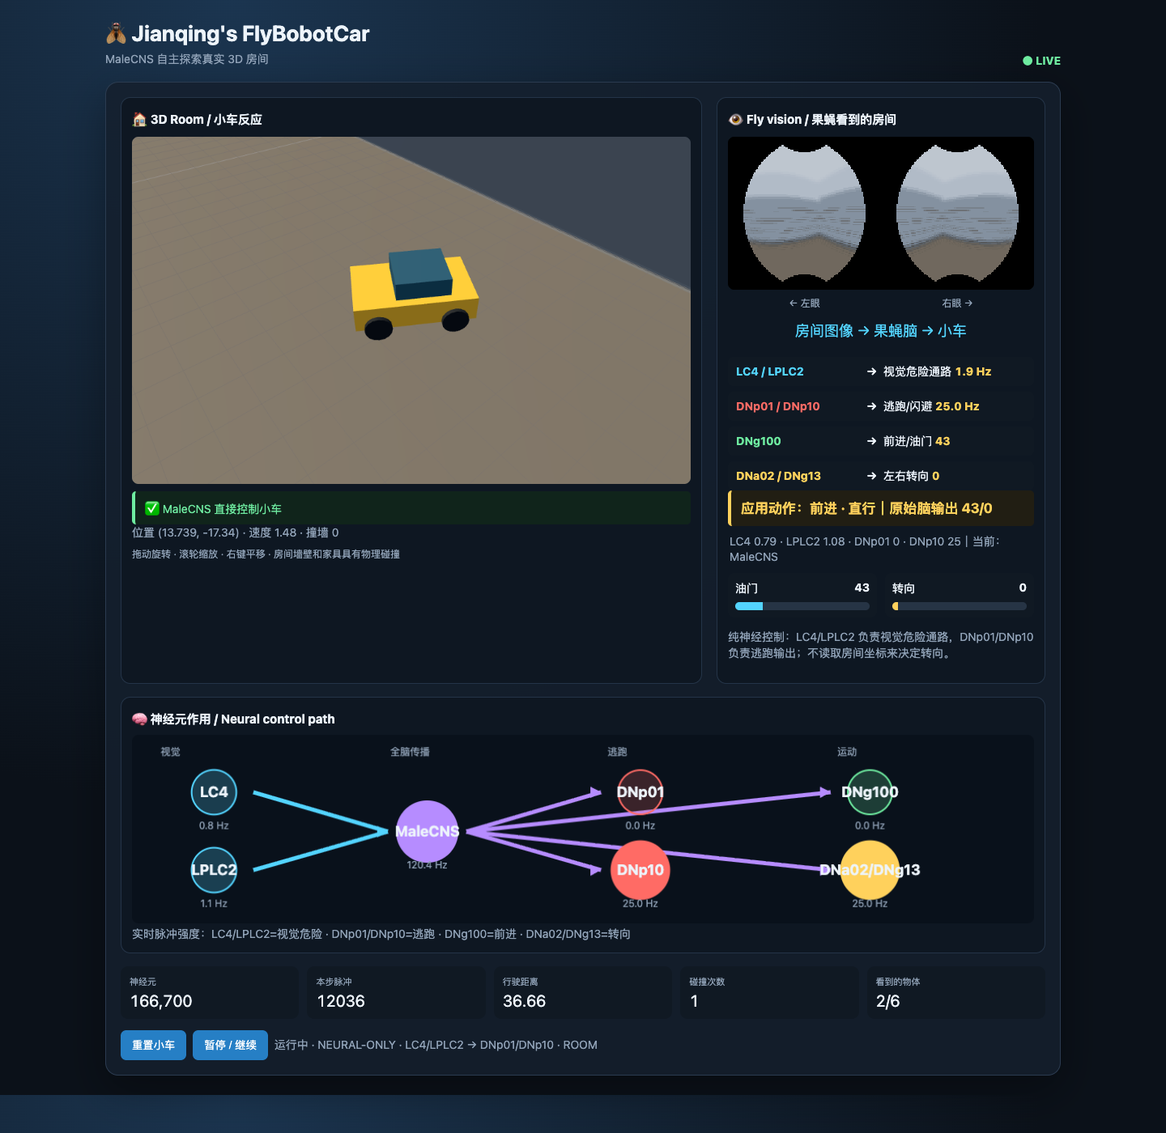
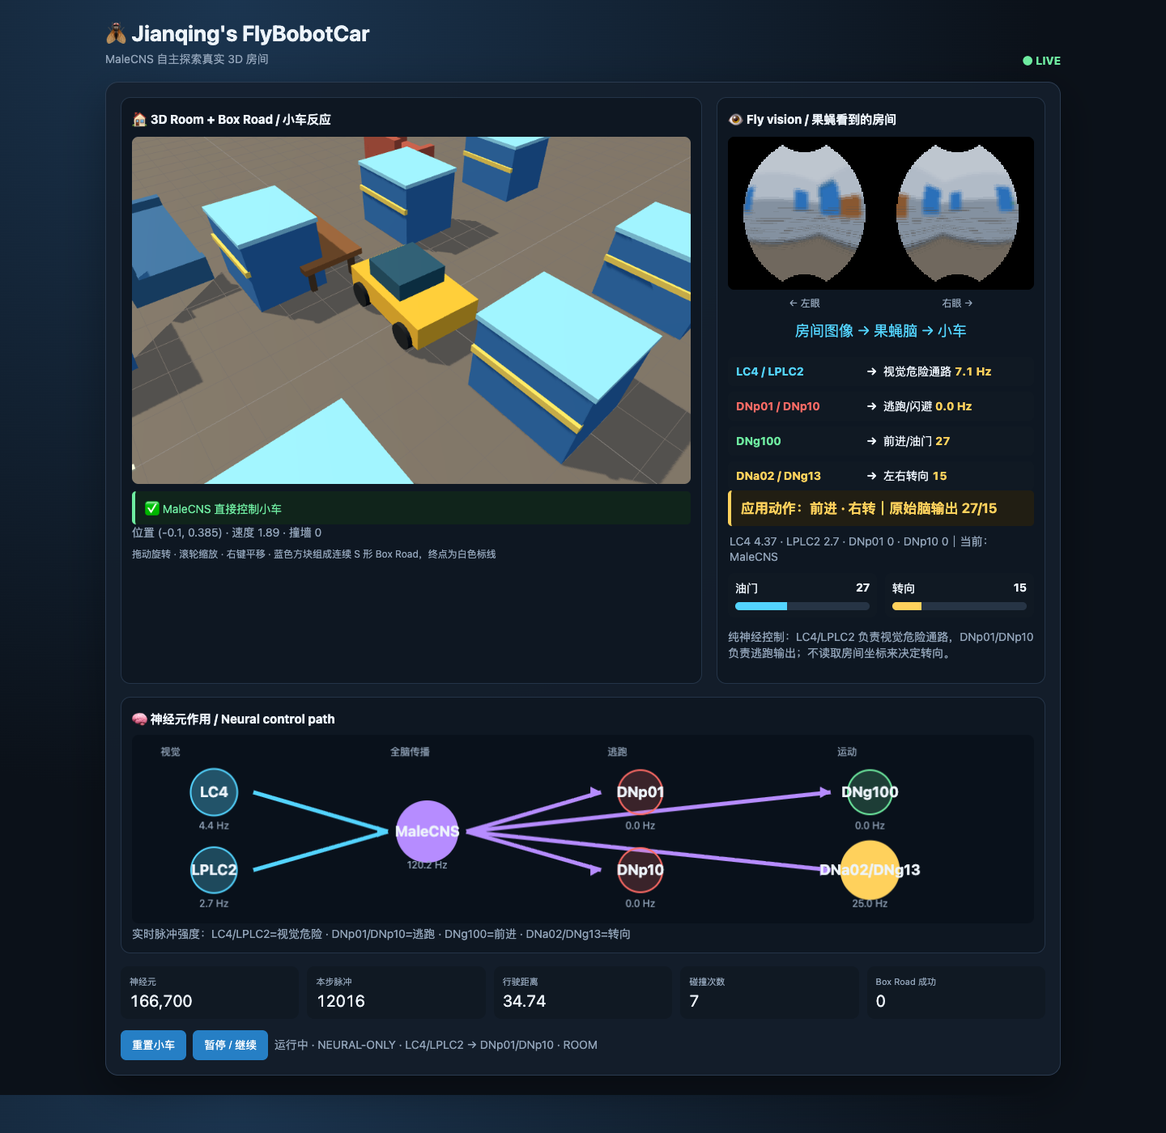
Replace sofa lane with S-shaped Box Road

diff --git a/index.html b/index.html
@@ -1,14 +1,14 @@
 <!doctype html><html lang="zh-CN"><head><meta charset="utf-8"><title>Jianqing's FlyBobotCar</title>
 <style>:root{--bg:#0b1119;--panel:#141f2d;--line:#2b3b50;--text:#edf4fb;--muted:#91a3b8;--cyan:#53d4ff;--yellow:#ffd15c;--green:#6eeba0}*{box-sizing:border-box}body{margin:0;background:radial-gradient(circle at 20% 0,#1b3550,#0b1119 56%);color:var(--text);font:14px system-ui}.wrap{width:min(1180px,95vw);margin:24px auto}.head{display:flex;justify-content:space-between;align-items:end}.head h1{margin:0 0 4px;font-size:27px}.muted{color:var(--muted)}.live{color:var(--green);font-weight:700}.panel{background:#141f2ddd;border:1px solid var(--line);border-radius:16px;padding:18px;margin-top:18px;box-shadow:0 18px 50px #0005}.grid{display:grid;grid-template-columns:1.38fr .78fr;gap:18px}.card{background:#0e1722;border:1px solid #243448;border-radius:12px;padding:13px}.card h2{font-size:15px;margin:0 0 10px}.scene{width:100%;height:auto;display:block;border-radius:8px;background:#202b39;cursor:grab}.vision{width:100%;image-rendering:pixelated;background:#03070b;border-radius:8px}.eyes{display:flex;justify-content:space-around;color:var(--muted);font-size:12px;margin-top:5px}.flow{text-align:center;color:var(--cyan);font-size:18px;padding:13px 0 8px}.action{border-left:4px solid var(--yellow);background:#211e13;padding:10px 12px;font-size:17px;font-weight:650;color:var(--yellow);border-radius:5px}.reaction{border-left:4px solid var(--green);background:#10241b;padding:9px 12px;margin-top:9px;color:var(--green);border-radius:5px}.mapping{display:grid;gap:7px;margin-top:12px}.maprow{display:grid;grid-template-columns:1fr auto 1.15fr;align-items:center;gap:8px;background:#101923;border-radius:7px;padding:8px 10px}.mapin{font-weight:700}.mapout{color:#ecf3fb}.mapval{font-variant-numeric:tabular-nums;color:var(--yellow);font-weight:700}.meters{display:grid;grid-template-columns:1fr 1fr;gap:10px;margin-top:12px}.meter{background:#101923;padding:9px;border-radius:8px}.meterhead{display:flex;justify-content:space-between}.track{height:10px;border-radius:8px;background:#263445;margin-top:7px;overflow:hidden}.fill{height:100%;background:var(--cyan);transition:width .2s}.fill.turn{background:var(--yellow)}.neural-card{margin-top:16px;background:#0e1722;border:1px solid #243448;border-radius:12px;padding:13px}.neural-card h2{font-size:15px;margin:0 0 8px}.neural-card canvas{width:100%;height:auto;background:#09111b;border-radius:8px}.stats{display:grid;grid-template-columns:repeat(5,1fr);gap:10px;margin-top:16px}.stat{background:#101923;padding:11px;border-radius:9px}.label{font-size:11px;color:var(--muted)}.value{font-size:20px;margin-top:4px;font-variant-numeric:tabular-nums}button{border:0;border-radius:7px;padding:9px 14px;background:#267fc5;color:white;margin:14px 8px 0 0;cursor:pointer}.hint{margin-top:8px;font-size:12px;color:var(--muted)}@media(max-width:800px){.grid{grid-template-columns:1fr}.stats{grid-template-columns:repeat(3,1fr)}}</style>
-<script type="importmap">{"imports":{"three":"https://cdn.jsdelivr.net/npm/three@0.180.0/build/three.module.js"}}</script></head><body><div class="wrap"><div class="head"><div><h1>🪰 Jianqing's FlyBobotCar</h1><div class="muted">MaleCNS 自主探索真实 3D 房间</div></div><div class="live">● LIVE</div></div><div class="panel"><div class="grid"><div class="card"><h2>🏠 3D Room + Sofa Road / 小车反应</h2><canvas id="scene" class="scene" width="900" height="560"></canvas><div class="reaction" id="reaction">等待小车反应…</div><div class="muted" id="pose">—</div><div class="hint">拖动旋转 · 滚轮缩放 · 右键平移 · 蓝色沙发组成 Sofa Road，终点为白色标线</div></div><div class="card"><h2>👁 Fly vision / 果蝇看到的房间</h2><canvas id="vision" class="vision" width="256" height="128"></canvas><div class="eyes"><span>← 左眼</span><span>右眼 →</span></div><div class="flow">房间图像 → 果蝇脑 → 小车</div><div class="mapping"><div class="maprow"><span class="mapin" style="color:#53d4ff">LC4 / LPLC2</span><b>→</b><span class="mapout">视觉危险通路 <b class="mapval" id="mapvision">0 Hz</b></span></div><div class="maprow"><span class="mapin" style="color:#ff6b65">DNp01 / DNp10</span><b>→</b><span class="mapout">逃跑/闪避 <b class="mapval" id="mapescape">0 Hz</b></span></div><div class="maprow"><span class="mapin" style="color:#6eeba0">DNg100</span><b>→</b><span class="mapout">前进/油门 <b class="mapval" id="mapforward">0</b></span></div><div class="maprow"><span class="mapin" style="color:#ffd15c">DNa02 / DNg13</span><b>→</b><span class="mapout">左右转向 <b class="mapval" id="mapturn">0</b></span></div></div><div class="action" id="action">动作：—</div><div class="muted" id="reflex" style="padding:9px 2px 0">作用：LC4/LPLC2=视觉危险 · DNp01/DNp10=逃跑 · DNg100=前进 · DNa02/DNg13=转向</div><div class="meters"><div class="meter"><div class="meterhead"><span>油门</span><b id="tv">0</b></div><div class="track"><div class="fill" id="throttle"></div></div></div><div class="meter"><div class="meterhead"><span>转向</span><b id="sv">0</b></div><div class="track"><div class="fill turn" id="steering"></div></div></div></div><p class="muted">纯神经控制：LC4/LPLC2 负责视觉危险通路，DNp01/DNp10 负责逃跑输出；不读取房间坐标来决定转向。</p></div></div><div class="neural-card"><h2>🧠 神经元作用 / Neural control path</h2><canvas id="neuralMap" width="1100" height="230"></canvas><div class="muted">实时脉冲强度：LC4/LPLC2=视觉危险 · DNp01/DNp10=逃跑 · DNg100=前进 · DNa02/DNg13=转向</div></div><div class="stats"><div class="stat"><div class="label">神经元</div><div class="value" id="neurons">—</div></div><div class="stat"><div class="label">本步脉冲</div><div class="value" id="spikes">—</div></div><div class="stat"><div class="label">行驶距离</div><div class="value" id="distance">—</div></div><div class="stat"><div class="label">碰撞次数</div><div class="value" id="collisions">—</div></div><div class="stat"><div class="label">Sofa Road 成功</div><div class="value" id="successes">—</div></div></div><button onclick="post('/reset')">重置小车</button><button onclick="post('/pause')">暂停 / 继续</button><span class="muted" id="status">加载 3D 房间…</span></div></div></div>
+<script type="importmap">{"imports":{"three":"https://cdn.jsdelivr.net/npm/three@0.180.0/build/three.module.js"}}</script></head><body><div class="wrap"><div class="head"><div><h1>🪰 Jianqing's FlyBobotCar</h1><div class="muted">MaleCNS 自主探索真实 3D 房间</div></div><div class="live">● LIVE</div></div><div class="panel"><div class="grid"><div class="card"><h2>🏠 3D Room + Box Road / 小车反应</h2><canvas id="scene" class="scene" width="900" height="560"></canvas><div class="reaction" id="reaction">等待小车反应…</div><div class="muted" id="pose">—</div><div class="hint">拖动旋转 · 滚轮缩放 · 右键平移 · 蓝色方块组成连续 S 形 Box Road，终点为白色标线</div></div><div class="card"><h2>👁 Fly vision / 果蝇看到的房间</h2><canvas id="vision" class="vision" width="256" height="128"></canvas><div class="eyes"><span>← 左眼</span><span>右眼 →</span></div><div class="flow">房间图像 → 果蝇脑 → 小车</div><div class="mapping"><div class="maprow"><span class="mapin" style="color:#53d4ff">LC4 / LPLC2</span><b>→</b><span class="mapout">视觉危险通路 <b class="mapval" id="mapvision">0 Hz</b></span></div><div class="maprow"><span class="mapin" style="color:#ff6b65">DNp01 / DNp10</span><b>→</b><span class="mapout">逃跑/闪避 <b class="mapval" id="mapescape">0 Hz</b></span></div><div class="maprow"><span class="mapin" style="color:#6eeba0">DNg100</span><b>→</b><span class="mapout">前进/油门 <b class="mapval" id="mapforward">0</b></span></div><div class="maprow"><span class="mapin" style="color:#ffd15c">DNa02 / DNg13</span><b>→</b><span class="mapout">左右转向 <b class="mapval" id="mapturn">0</b></span></div></div><div class="action" id="action">动作：—</div><div class="muted" id="reflex" style="padding:9px 2px 0">作用：LC4/LPLC2=视觉危险 · DNp01/DNp10=逃跑 · DNg100=前进 · DNa02/DNg13=转向</div><div class="meters"><div class="meter"><div class="meterhead"><span>油门</span><b id="tv">0</b></div><div class="track"><div class="fill" id="throttle"></div></div></div><div class="meter"><div class="meterhead"><span>转向</span><b id="sv">0</b></div><div class="track"><div class="fill turn" id="steering"></div></div></div></div><p class="muted">纯神经控制：LC4/LPLC2 负责视觉危险通路，DNp01/DNp10 负责逃跑输出；不读取房间坐标来决定转向。</p></div></div><div class="neural-card"><h2>🧠 神经元作用 / Neural control path</h2><canvas id="neuralMap" width="1100" height="230"></canvas><div class="muted">实时脉冲强度：LC4/LPLC2=视觉危险 · DNp01/DNp10=逃跑 · DNg100=前进 · DNa02/DNg13=转向</div></div><div class="stats"><div class="stat"><div class="label">神经元</div><div class="value" id="neurons">—</div></div><div class="stat"><div class="label">本步脉冲</div><div class="value" id="spikes">—</div></div><div class="stat"><div class="label">行驶距离</div><div class="value" id="distance">—</div></div><div class="stat"><div class="label">碰撞次数</div><div class="value" id="collisions">—</div></div><div class="stat"><div class="label">Box Road 成功</div><div class="value" id="successes">—</div></div></div><button onclick="post('/reset')">重置小车</button><button onclick="post('/pause')">暂停 / 继续</button><span class="muted" id="status">加载 3D 房间…</span></div></div></div>
 <script type="module">
 import * as THREE from 'three';import {OrbitControls} from 'https://cdn.jsdelivr.net/npm/three@0.180.0/examples/jsm/controls/OrbitControls.js';
 const $=id=>document.getElementById(id);let state={x:0,y:0,heading:0},car,scene,cam,renderer,controls,hasState=false;
 const material=c=>new THREE.MeshStandardMaterial({color:c,roughness:.78});const box=(w,h,d,c)=>new THREE.Mesh(new THREE.BoxGeometry(w,h,d),material(c));
 function drawNeural(s){let c=$("neuralMap"),x=c.getContext("2d"),nodes=[{x:100,y:70,n:"LC4",v:s.lc4_rate,col:"#53d4ff"},{x:100,y:165,n:"LPLC2",v:s.lplc2_rate,col:"#53d4ff"},{x:360,y:118,n:"MaleCNS",v:s.spikes/100,v2:s.spikes/100,col:"#b68cff"},{x:620,y:70,n:"DNp01",v:s.dnp01_rate,col:"#ff6b65"},{x:620,y:165,n:"DNp10",v:s.dnp10_rate,col:"#ff6b65"},{x:900,y:70,n:"DNg100",v:s.dng100_rate,col:"#6eeba0"},{x:900,y:165,n:"DNa02/DNg13",v:s.dna_rate,col:"#ffd15c"}],edges=[[0,2],[1,2],[2,3],[2,4],[2,5],[2,6]];x.clearRect(0,0,c.width,c.height);x.font="bold 18px system-ui";x.textAlign="center";for(let [a,b] of edges){let A=nodes[a],B=nodes[b],alpha=.25+Math.min(1,(A.v+B.v)/30)*.75;x.strokeStyle=A.col;x.globalAlpha=alpha;x.lineWidth=2+alpha*3;x.beginPath();x.moveTo(A.x+48,A.y);x.lineTo(B.x-48,B.y);x.stroke();x.globalAlpha=1;x.fillStyle=A.col;x.beginPath();x.moveTo(B.x-48,B.y);x.lineTo(B.x-61,B.y-7);x.lineTo(B.x-61,B.y+7);x.fill()}for(let n of nodes){let p=.2+Math.min(1,n.v/25)*.8;x.globalAlpha=p;x.fillStyle=n.col;x.beginPath();x.arc(n.x,n.y,27+Math.min(10,n.v/3),0,7);x.fill();x.globalAlpha=1;x.strokeStyle=n.col;x.lineWidth=2;x.stroke();x.fillStyle="#edf4fb";x.fillText(n.n,n.x,n.y+6);x.font="12px system-ui";x.fillStyle="#91a3b8";x.fillText(`${n.v.toFixed(1)} Hz`,n.x,n.y+45);x.font="bold 18px system-ui"}x.textAlign="left";x.font="12px system-ui";x.fillStyle="#91a3b8";x.fillText("视觉",35,25);x.fillText("全脑传播",315,25);x.fillText("逃跑",580,25);x.fillText("运动",860,25)}
-function addFurniture(o){let g=new THREE.Group(),c=(o.color[0]<<16)|(o.color[1]<<8)|o.color[2];if(o.kind==='sofa'||o.kind==='armchair'){let seat=box(o.w,.45,o.d,c);seat.position.y=.48;g.add(seat);let back=box(o.w,o.h*.75,.35,c);back.position.set(0,o.h*.6,o.d/2-.18);g.add(back);for(let side of [-1,1]){let arm=box(.3,.7,o.d,c);arm.position.set(side*(o.w/2-.15),.65,0);g.add(arm)}}else if(o.kind.includes('table')){let top=box(o.w,.18,o.d,c);top.position.y=o.h;g.add(top);for(let sx of [-1,1])for(let sz of [-1,1]){let leg=box(.16,o.h,.16,0x55402e);leg.position.set(sx*(o.w/2-.25),o.h/2,sz*(o.d/2-.25));g.add(leg)}}else if(o.kind==='bookshelf'){let body=box(o.w,o.h,o.d,c);body.position.y=o.h/2;g.add(body);for(let y=.5;y<o.h;y+=.65){let shelf=box(o.w+.08,.08,o.d+.08,0xe0b77b);shelf.position.y=y;g.add(shelf)}}else{let pot=new THREE.Mesh(new THREE.CylinderGeometry(.55,.42,.7,16),material(0x9a5837));pot.position.y=.35;g.add(pot);let stem=box(.12,1.5,.12,0x376d3d);stem.position.y=1.3;g.add(stem);let leaves=new THREE.Mesh(new THREE.SphereGeometry(.8,16,12),material(0x2f9652));leaves.position.y=2;g.add(leaves)}g.position.set(o.x,0,o.y);g.traverse(n=>{if(n.isMesh){n.castShadow=true;n.receiveShadow=true}});scene.add(g)}
+function addFurniture(o){let g=new THREE.Group(),c=(o.color[0]<<16)|(o.color[1]<<8)|o.color[2];if(o.kind==='sofa'||o.kind==='armchair'){let seat=box(o.w,.45,o.d,c);seat.position.y=.48;g.add(seat);let back=box(o.w,o.h*.75,.35,c);back.position.set(0,o.h*.6,o.d/2-.18);g.add(back);for(let side of [-1,1]){let arm=box(.3,.7,o.d,c);arm.position.set(side*(o.w/2-.15),.65,0);g.add(arm)}}else if(o.kind.includes('table')){let top=box(o.w,.18,o.d,c);top.position.y=o.h;g.add(top);for(let sx of [-1,1])for(let sz of [-1,1]){let leg=box(.16,o.h,.16,0x55402e);leg.position.set(sx*(o.w/2-.25),o.h/2,sz*(o.d/2-.25));g.add(leg)}}else if(o.kind==='box'){let body=box(o.w,o.h,o.d,c);body.position.y=o.h/2;g.add(body);let top=box(o.w+.08,.12,o.d+.08,0x8ddcff);top.position.y=o.h+.06;g.add(top);let stripe=box(o.w+.02,.16,.12,0xf0d35c);stripe.position.set(0,o.h*.62,o.d/2+.02);g.add(stripe)}else if(o.kind==='bookshelf'){let body=box(o.w,o.h,o.d,c);body.position.y=o.h/2;g.add(body);for(let y=.5;y<o.h;y+=.65){let shelf=box(o.w+.08,.08,o.d+.08,0xe0b77b);shelf.position.y=y;g.add(shelf)}}else{let pot=new THREE.Mesh(new THREE.CylinderGeometry(.55,.42,.7,16),material(0x9a5837));pot.position.y=.35;g.add(pot);let stem=box(.12,1.5,.12,0x376d3d);stem.position.y=1.3;g.add(stem);let leaves=new THREE.Mesh(new THREE.SphereGeometry(.8,16,12),material(0x2f9652));leaves.position.y=2;g.add(leaves)}g.position.set(o.x,0,o.y);g.traverse(n=>{if(n.isMesh){n.castShadow=true;n.receiveShadow=true}});scene.add(g)}
 async function setup3D(){let canvas=$('scene');scene=new THREE.Scene();scene.background=new THREE.Color(0x182231);cam=new THREE.PerspectiveCamera(48,canvas.width/canvas.height,.1,100);renderer=new THREE.WebGLRenderer({canvas,antialias:true});renderer.setPixelRatio(Math.min(devicePixelRatio,2));renderer.shadowMap.enabled=true;controls=new OrbitControls(cam,canvas);controls.enableDamping=true;controls.maxPolarAngle=Math.PI*.49;controls.minDistance=4;controls.maxDistance=55;scene.add(new THREE.HemisphereLight(0xe6f1ff,0x463b32,2.1));let light=new THREE.DirectionalLight(0xfff1d0,3);light.position.set(-8,13,6);light.castShadow=true;scene.add(light);let floor=box(48,.25,48,0x70685f);floor.position.y=-.14;floor.receiveShadow=true;scene.add(floor);let grid=new THREE.GridHelper(48,48,0x96918b,0x7c746c);grid.position.y=.01;scene.add(grid);let wallMat=new THREE.MeshStandardMaterial({color:0x8995a5,transparent:true,opacity:.22,side:THREE.DoubleSide,depthWrite:false,roughness:.9});for(let [w,h,d,x,y,z] of [[48,7,.3,0,3.5,-24],[48,7,.3,0,3.5,24],[.3,7,48,-24,3.5,0],[.3,7,48,24,3.5,0]]){let wall=new THREE.Mesh(new THREE.BoxGeometry(w,h,d),wallMat);wall.position.set(x,y,z);wall.receiveShadow=true;scene.add(wall)}let objects=await(await fetch('/objects')).json();objects.forEach(addFurniture);let finish=box(5.8,.035,.35,0xf4f0d0);finish.position.set(0,.04,10);scene.add(finish);let finish2=box(.12,.04,5.8,0xf4f0d0);finish2.position.set(0,.05,10);scene.add(finish2);let lc=document.createElement('canvas');lc.width=1024;lc.height=256;let x=lc.getContext('2d');x.fillStyle='#10243c';x.fillRect(0,0,1024,256);x.fillStyle='white';x.font='bold 61px system-ui';x.textAlign='center';x.fillText("Jianqing's",512,105);x.fillStyle='#61d6ff';x.font='bold 73px system-ui';x.fillText('FlyBobotCar',512,195);let sign=new THREE.Mesh(new THREE.PlaneGeometry(10,2.5),new THREE.MeshBasicMaterial({map:new THREE.CanvasTexture(lc)}));sign.position.set(0,4.6,-14.8);scene.add(sign);car=new THREE.Group();let body=box(1.8,.65,3,0xf1b92f);body.position.y=.65;car.add(body);let cabin=box(1.35,.58,1.35,0x1c526c);cabin.position.set(0,1.16,-.2);car.add(cabin);for(let wx of [-.92,.92])for(let wz of [-.95,.95]){let wheel=new THREE.Mesh(new THREE.CylinderGeometry(.34,.34,.18,16),material(0x111820));wheel.rotation.z=Math.PI/2;wheel.position.set(wx,.38,wz);car.add(wheel)}car.traverse(n=>{if(n.isMesh)n.castShadow=true});scene.add(car);function animate(){requestAnimationFrame(animate);if(car){car.position.set(state.x,0,state.y);car.rotation.y=-state.heading-Math.PI/2}controls.update();renderer.render(scene,cam)}animate()}
 async function post(url){await fetch(url,{method:'POST'})}window.post=post;
 async function drawVision(){try{let a=new Uint8ClampedArray(await(await fetch('/vision',{cache:'no-store'})).arrayBuffer()),c=$('vision').getContext('2d'),im=c.createImageData(256,128);for(let i=0,j=0;i<a.length;i+=3,j+=4){im.data[j]=a[i];im.data[j+1]=a[i+1];im.data[j+2]=a[i+2];im.data[j+3]=255}c.putImageData(im,0,0)}catch(e){}}
-async function update(){try{let s=await(await fetch('/state',{cache:'no-store'})).json();drawNeural(s);if(!hasState){cam.position.set(s.x+6,7,s.y+5);controls.target.set(s.x,0,s.y);hasState=true}else{let dx=s.x-state.x,dz=s.y-state.y;cam.position.x+=dx;cam.position.z+=dz;controls.target.x+=dx;controls.target.z+=dz}state=s;let move=s.throttle>8?'前进':'停止',turn=s.steering>8?'右转':s.steering<-8?'左转':'直行';$('action').textContent=`应用动作：${move} · ${turn}｜原始脑输出 ${s.raw_throttle}/${s.raw_steering}`;$('mapvision').textContent=`${(s.lc4_rate+s.lplc2_rate).toFixed(1)} Hz`;$('mapescape').textContent=`${(s.dnp01_rate+s.dnp10_rate).toFixed(1)} Hz`;$('mapforward').textContent=s.throttle;$('mapturn').textContent=s.steering;$('reflex').textContent=`LC4 ${s.lc4_rate} · LPLC2 ${s.lplc2_rate} · DNp01 ${s.dnp01_rate} · DNp10 ${s.dnp10_rate}｜当前：${s.control_source}`;$('reaction').textContent=s.last_contact==='none'?(s.control_source==='MaleCNS neural escape'?'🧠 DNp01/DNp10 触发神经逃跑':s.control_source==='MaleCNS tactile escape'?'🧠 触碰后执行神经逃跑':'✅ MaleCNS 直接控制小车'):`🛑 碰到：${s.last_contact} · 等待神经逃跑`;$('pose').textContent=`位置 (${s.x}, ${s.y}) · 速度 ${s.speed} · 撞墙 ${s.wall_collisions}`;[['neurons',s.neurons.toLocaleString()],['spikes',s.spikes],['distance',s.distance],['collisions',s.collisions],['successes',s.sofa_successes]].forEach(([id,v])=>$(id).textContent=v);$('tv').textContent=s.throttle;$('sv').textContent=s.steering;$('throttle').style.width=Math.abs(s.throttle)/70*100+'%';$('steering').style.width=Math.abs(s.steering)/70*100+'%';$('status').textContent=`${s.paused?'已暂停':'运行中'} · NEURAL-ONLY · LC4/LPLC2 → DNp01/DNp10 · ROOM`;}catch(e){$('status').textContent='后端连接断开'}}setup3D();setInterval(update,200);setInterval(drawVision,250);update();drawVision();
+async function update(){try{let s=await(await fetch('/state',{cache:'no-store'})).json();drawNeural(s);if(!hasState){cam.position.set(s.x+6,7,s.y+5);controls.target.set(s.x,0,s.y);hasState=true}else{let dx=s.x-state.x,dz=s.y-state.y;cam.position.x+=dx;cam.position.z+=dz;controls.target.x+=dx;controls.target.z+=dz}state=s;let move=s.throttle>8?'前进':'停止',turn=s.steering>8?'右转':s.steering<-8?'左转':'直行';$('action').textContent=`应用动作：${move} · ${turn}｜原始脑输出 ${s.raw_throttle}/${s.raw_steering}`;$('mapvision').textContent=`${(s.lc4_rate+s.lplc2_rate).toFixed(1)} Hz`;$('mapescape').textContent=`${(s.dnp01_rate+s.dnp10_rate).toFixed(1)} Hz`;$('mapforward').textContent=s.throttle;$('mapturn').textContent=s.steering;$('reflex').textContent=`LC4 ${s.lc4_rate} · LPLC2 ${s.lplc2_rate} · DNp01 ${s.dnp01_rate} · DNp10 ${s.dnp10_rate}｜当前：${s.control_source}`;$('reaction').textContent=s.last_contact==='none'?(s.control_source==='MaleCNS neural escape'?'🧠 DNp01/DNp10 触发神经逃跑':s.control_source==='MaleCNS tactile escape'?'🧠 触碰后执行神经逃跑':'✅ MaleCNS 直接控制小车'):`🛑 碰到：${s.last_contact} · 等待神经逃跑`;$('pose').textContent=`位置 (${s.x}, ${s.y}) · 速度 ${s.speed} · 撞墙 ${s.wall_collisions}`;[['neurons',s.neurons.toLocaleString()],['spikes',s.spikes],['distance',s.distance],['collisions',s.collisions],['successes',s.box_successes]].forEach(([id,v])=>$(id).textContent=v);$('tv').textContent=s.throttle;$('sv').textContent=s.steering;$('throttle').style.width=Math.abs(s.throttle)/70*100+'%';$('steering').style.width=Math.abs(s.steering)/70*100+'%';$('status').textContent=`${s.paused?'已暂停':'运行中'} · NEURAL-ONLY · LC4/LPLC2 → DNp01/DNp10 · ROOM`;}catch(e){$('status').textContent='后端连接断开'}}setup3D();setInterval(update,200);setInterval(drawVision,250);update();drawVision();
 </script></body></html>

diff --git a/robot.py b/robot.py
@@ -31,11 +31,14 @@ OBJECTS = [
     {"kind": "bookshelf", "x": 10.8, "y": -4.2, "w": 1.4, "d": 5.0, "h": 3.2, "color": [101, 67, 43]},
     {"kind": "armchair", "x": -8.0, "y": -5.5, "w": 2.2, "d": 2.2, "h": 1.7, "color": [178, 83, 66]},
     {"kind": "plant", "x": 6.8, "y": -7.5, "w": 1.5, "d": 1.5, "h": 2.4, "color": [46, 135, 70]},
-    # Sofa Road: a visible corridor, not a hidden navigation constraint.
-    {"kind": "sofa", "x": -4.4, "y": -7.0, "w": 2.0, "d": 3.0, "h": 1.5, "color": [49, 112, 165]},
-    {"kind": "sofa", "x": 4.4, "y": -7.0, "w": 2.0, "d": 3.0, "h": 1.5, "color": [49, 112, 165]},
-    {"kind": "sofa", "x": -4.4, "y": -2.5, "w": 2.0, "d": 3.0, "h": 1.5, "color": [49, 112, 165]},
-    {"kind": "sofa", "x": 4.4, "y": -2.5, "w": 2.0, "d": 3.0, "h": 1.5, "color": [49, 112, 165]},
+    # Box Road: repeated blocks create a visible S/slalom challenge.
+    {"kind": "box", "x": -3.8, "y": -7.5, "w": 2.4, "d": 2.0, "h": 2.0, "color": [43, 112, 185]},
+    {"kind": "box", "x": 3.8, "y": -5.0, "w": 2.4, "d": 2.0, "h": 2.0, "color": [43, 112, 185]},
+    {"kind": "box", "x": -3.8, "y": -2.5, "w": 2.4, "d": 2.0, "h": 2.0, "color": [43, 112, 185]},
+    {"kind": "box", "x": 3.8, "y": 0.0, "w": 2.4, "d": 2.0, "h": 2.0, "color": [43, 112, 185]},
+    {"kind": "box", "x": -3.8, "y": 2.5, "w": 2.4, "d": 2.0, "h": 2.0, "color": [43, 112, 185]},
+    {"kind": "box", "x": 3.8, "y": 5.0, "w": 2.4, "d": 2.0, "h": 2.0, "color": [43, 112, 185]},
+    {"kind": "box", "x": -3.8, "y": 7.5, "w": 2.4, "d": 2.0, "h": 2.0, "color": [43, 112, 185]},
 ]
 
 
@@ -71,7 +74,7 @@ class World:
         self.x, self.y, self.heading = 0.0, -9.5, math.pi / 2
         self.speed = self.distance = 0.0
         self.collisions = self.wall_collisions = 0
-        self.sofa_successes = 0
+        self.box_successes = 0
         self.last_collision_step = -100
         self.last_contact = "none"
         self.escape_ticks = 0
@@ -225,7 +228,7 @@ class World:
                 # Evaluation only: crossing the marked Sofa Road finish line
                 # counts success; it never changes steering or throttle.
                 if previous_y < 10.0 <= self.y and abs(self.x) < 3.0:
-                    self.sofa_successes += 1
+                    self.box_successes += 1
                     self.x, self.y, self.heading = 0.0, -9.5, math.pi / 2
                     self.speed = 0.0
 
@@ -242,7 +245,7 @@ class World:
                 "distance": round(self.distance, 2), "collisions": self.collisions,
                 "wall_collisions": self.wall_collisions, "last_contact": self.last_contact,
                 "visible_objects": visible_objects, "object_count": len(OBJECTS),
-                "sofa_successes": self.sofa_successes,
+                "box_successes": self.box_successes,
                 "spikes": int(len(spikes)), "step": self.model.step_count, "paused": self.paused,
                 "neurons": self.model.n, "edges": int(self.model.w.nnz),
             }

diff --git a/tests/test_robot.py b/tests/test_robot.py
@@ -8,10 +8,10 @@ import robot
 
 
 def test_room_objects_have_collision_geometry():
-    assert len(robot.OBJECTS) == 10
+    assert len(robot.OBJECTS) == 13
     for item in robot.OBJECTS:
         assert item["w"] > 0 and item["d"] > 0 and item["h"] > 0
-        assert robot.collides_object(item["x"], item["y"]) is item
+        assert robot.collides_object(item["x"], item["y"]) is not None
 
 
 def test_room_start_is_free():

diff --git a/README.md b/README.md
@@ -42,7 +42,7 @@ Open <http://127.0.0.1:8775/>.
 
 ## Room
 
-The bounded room is 48 × 48 world units and contains physical walls, furniture, tiled floor, a `Jianqing's FlyBobotCar` wall sign, and a blue **Sofa Road** corridor. Four sofas form the corridor and a white finish line marks its end. Crossing it increments the Sofa Road success counter; the finish detector evaluates only and does not steer or rescue the car. The backend physics, fly-camera rendering, and Three.js scene use the same object layout.
+The bounded room is 48 × 48 world units and contains physical walls, furniture, tiled floor, a `Jianqing's FlyBobotCar` wall sign, and a blue **Box Road** challenge. Seven rectangular blocks form a repeated S/slalom pattern and a white finish line marks the end. Crossing it increments the Box Road success counter; the finish detector evaluates only and does not steer or rescue the car. The backend physics, fly-camera rendering, and Three.js scene use the same object layout.
 
 ## Controls
 
